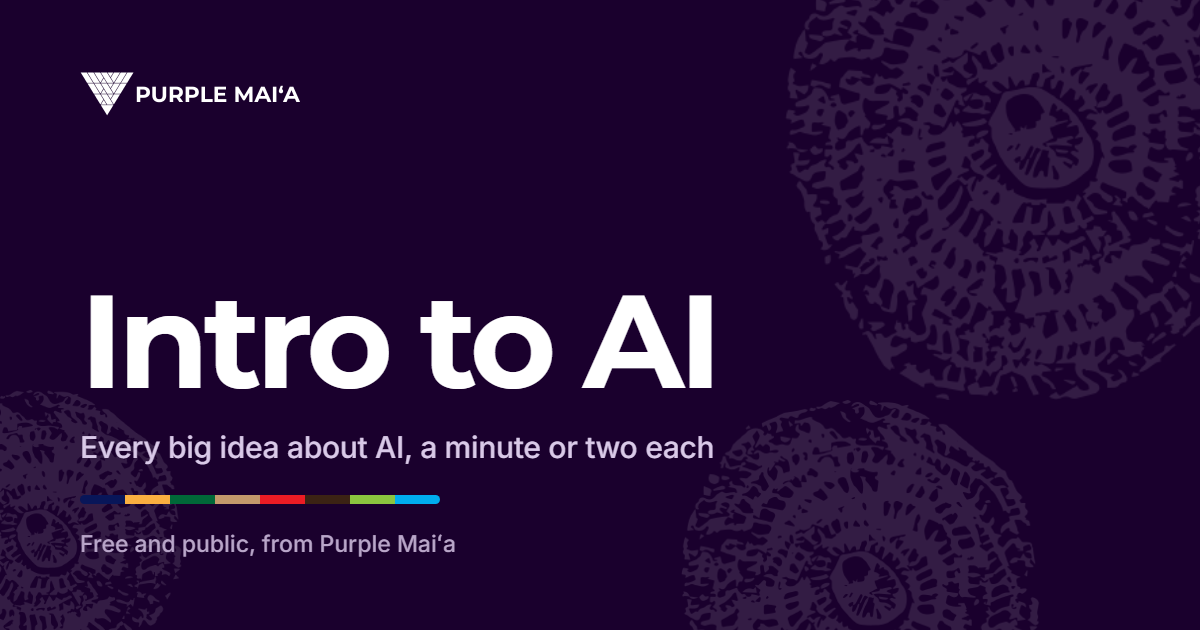
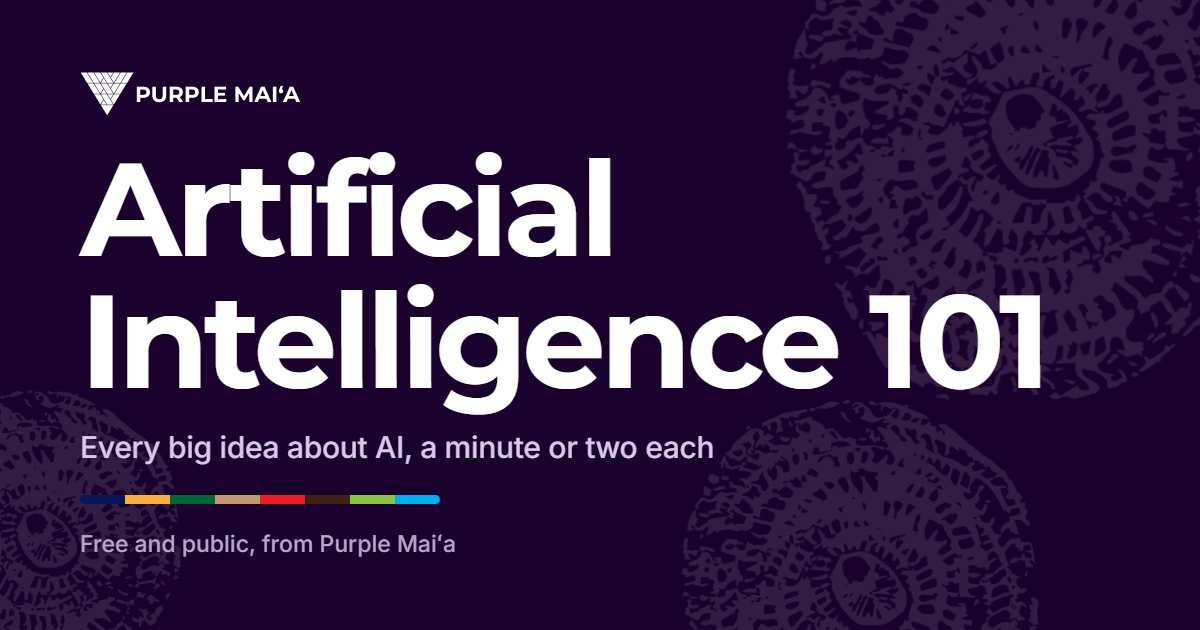
Carry the re-rendered social card back to main
tools/social-card-intro.html and assets/social-intro.png are shared
files, so they have to be identical on both branches or index.html stops
being the only difference between them. The card is the community
edition's og:image and main never references it, but it still lives here.

Changed region(s): [[0.2158, 0.4524, 0.7092, 0.6635], [0.0617, 0.2413, 0.5242, 0.4222], [0.7092, 0.4524, 0.8942, 0.6333]]

diff --git a/tools/social-card-intro.html b/tools/social-card-intro.html
@@ -1,4 +1,4 @@
-<!-- Source for assets/social-intro.png (the og:image for Intro to AI). Re-render after any rebrand
+<!-- Source for assets/social-intro.png (the og:image for the community edition). Re-render after any rebrand
      so link previews match the site. From the repo root:
 
        chrome --headless --disable-gpu --disable-lcd-text --hide-scrollbars
@@ -50,7 +50,7 @@
 <div class="card">
   <div class="tex"></div>
   <img class="logo" src="../assets/pm-lockup-white.png" alt="">
-  <h1>Intro to AI</h1>
+  <h1>Artificial Intelligence 101</h1>
   <p class="sub">Every big idea about AI, a minute or two each</p>
   <!-- the logo's own eight colours, in logo order -->
   <div class="strip">
